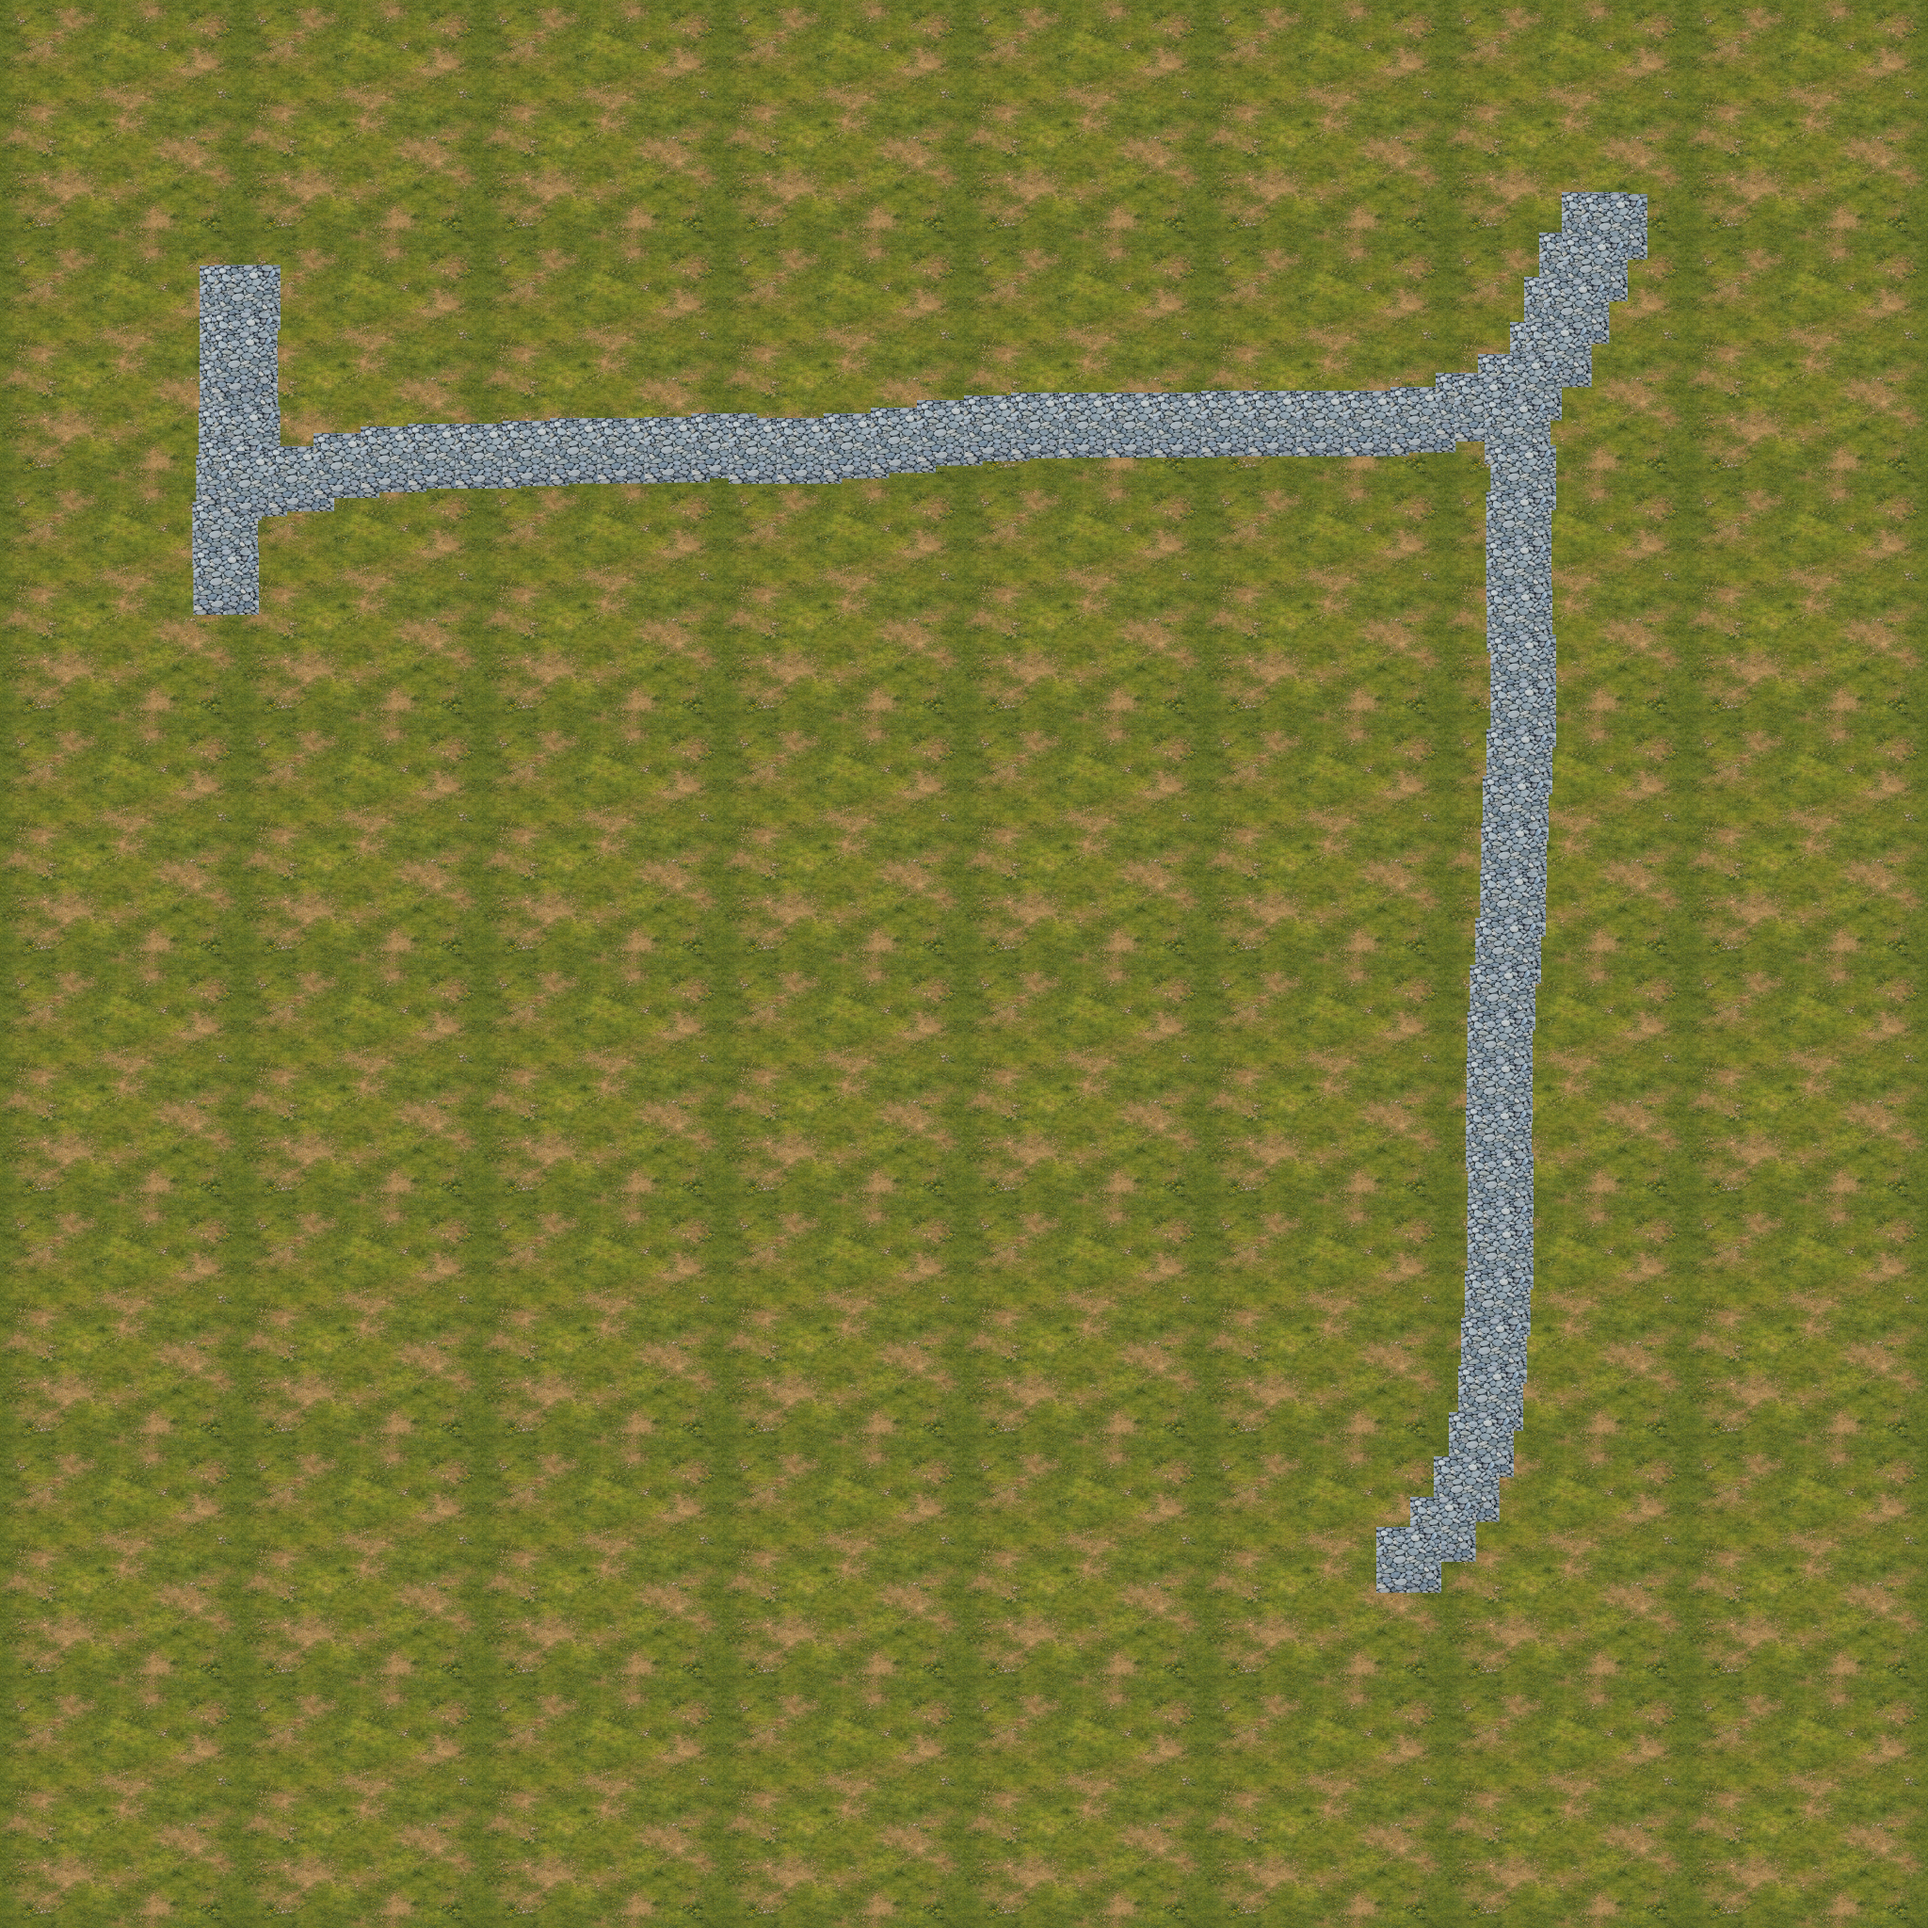
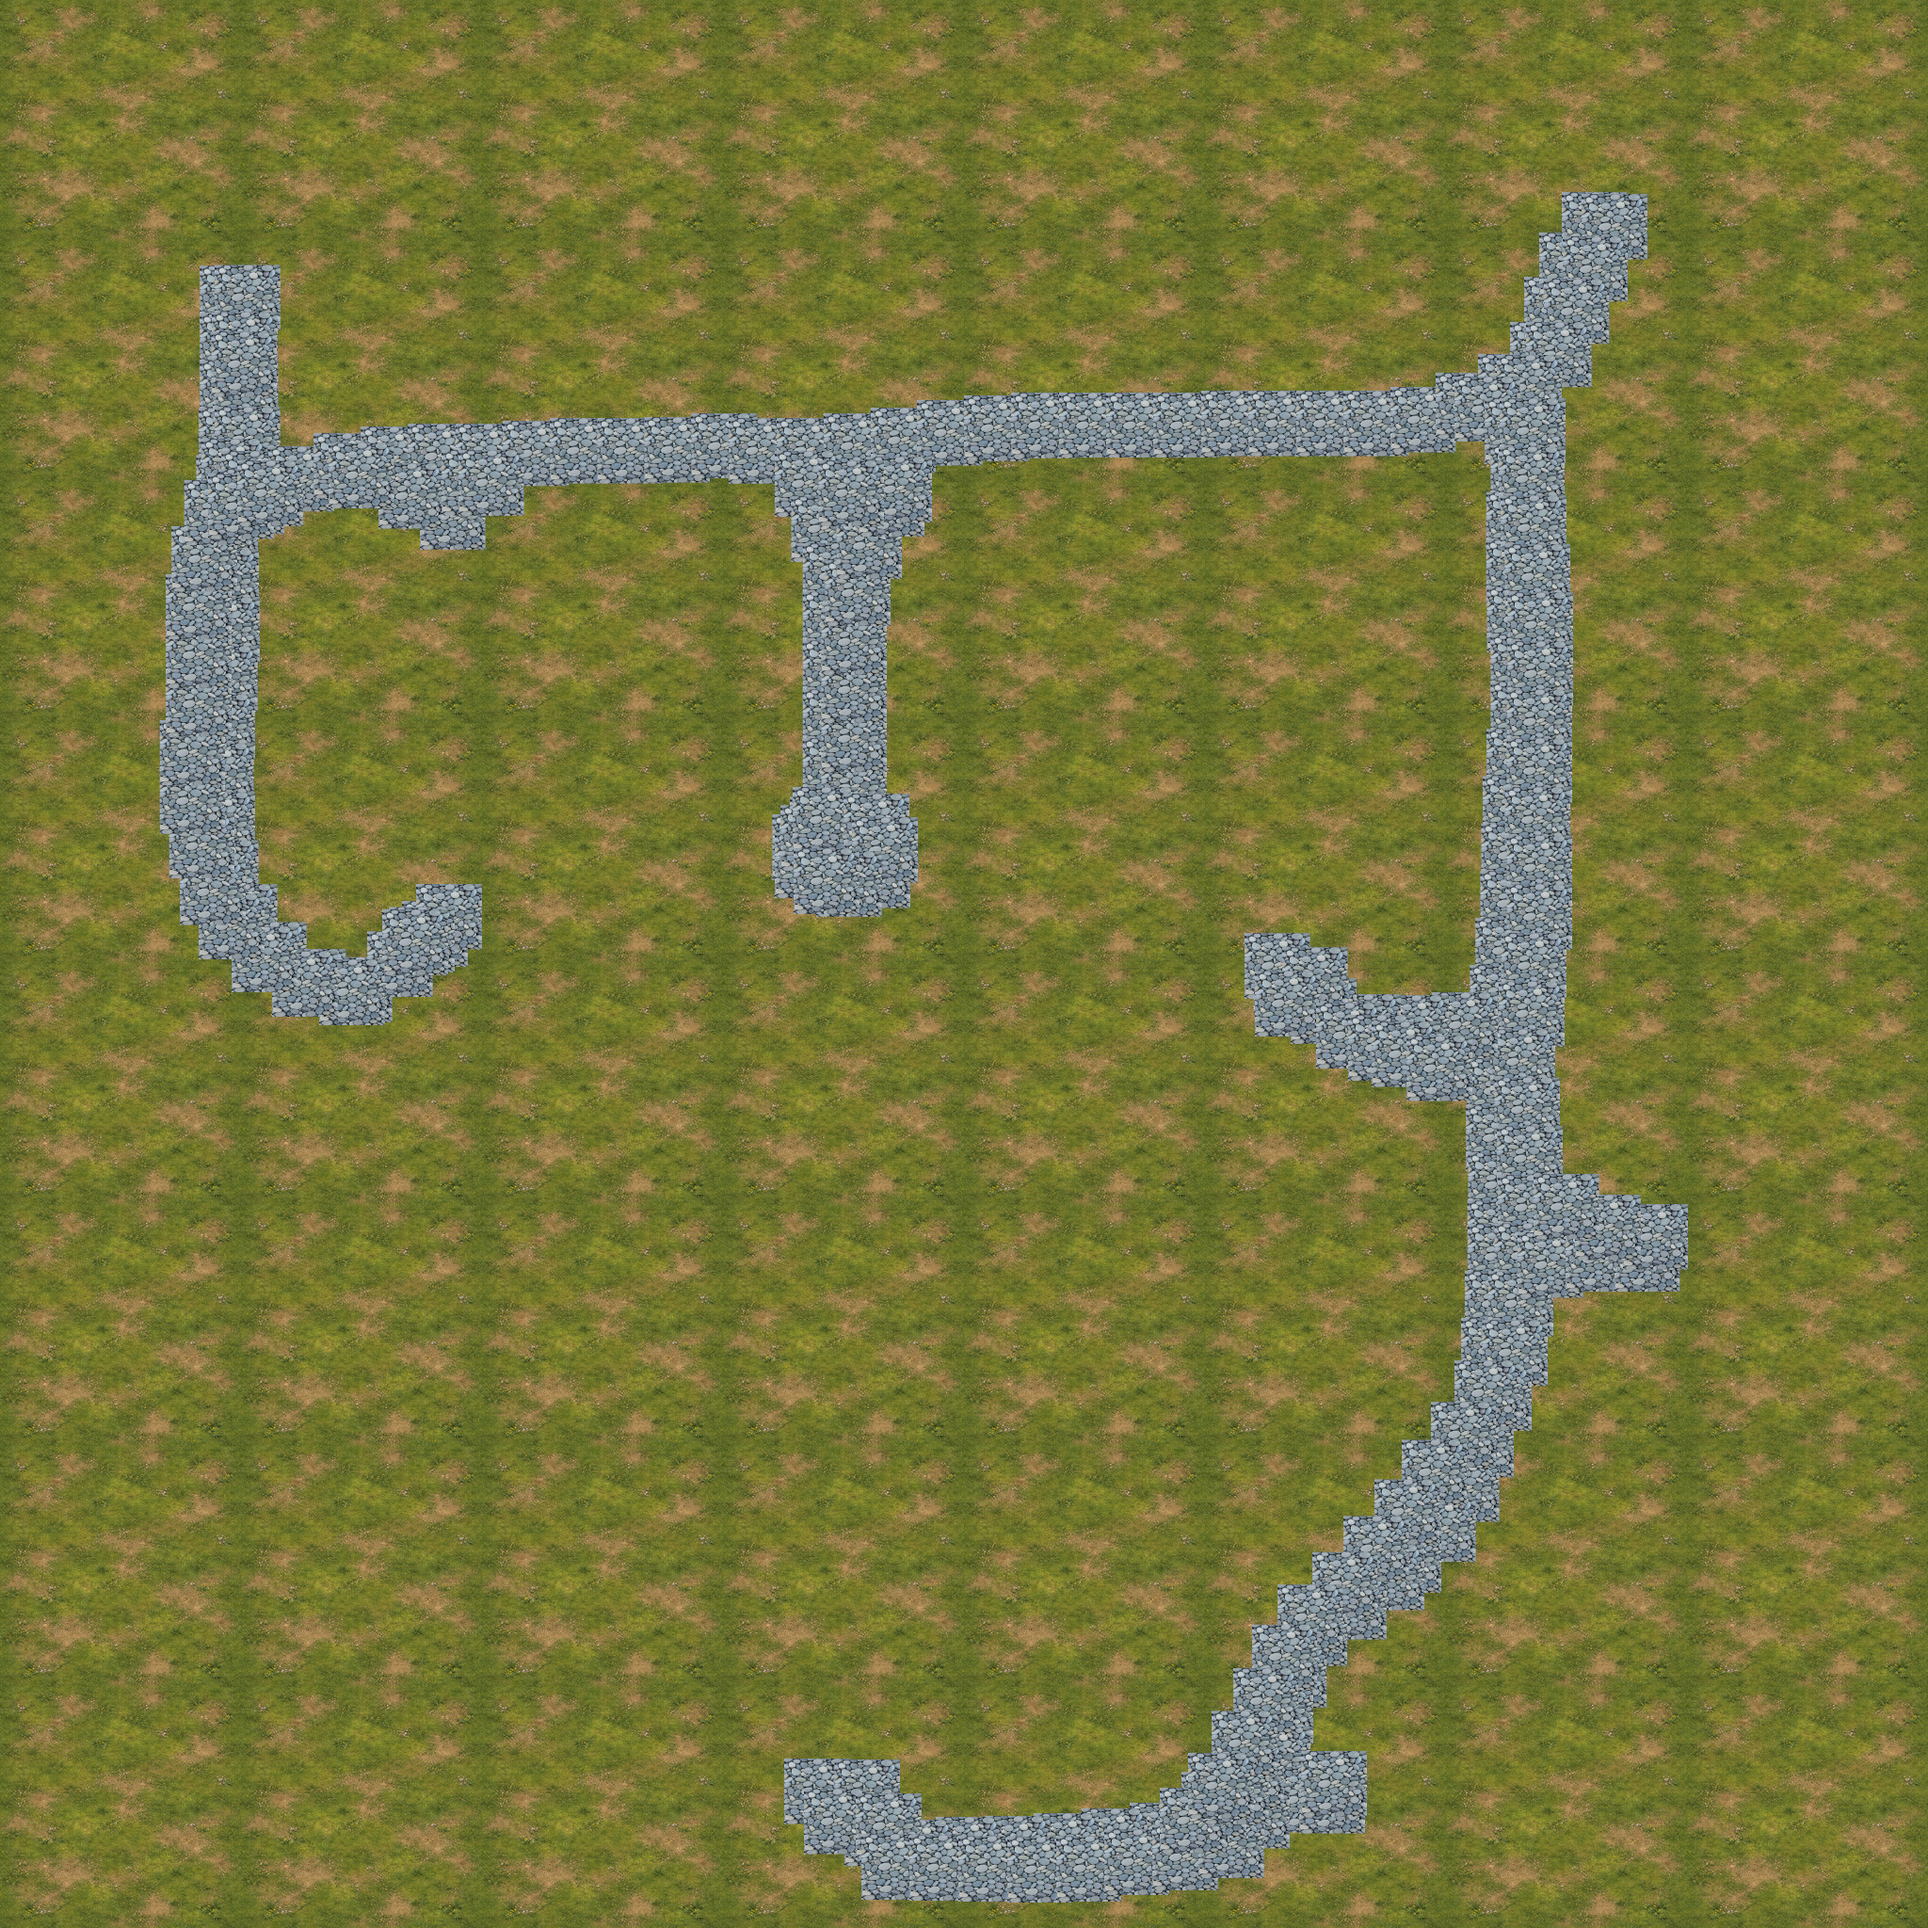
Added paths to map.

Changed region(s): [[0.4062, 0.1875, 0.875, 1.0], [0.0625, 0.2188, 0.2812, 0.5312], [0.375, 0.2188, 0.5, 0.5]]

diff --git a/src/main/java/no/uib/inf112/map/levels/Level1.java b/src/main/java/no/uib/inf112/map/levels/Level1.java
@@ -31,8 +31,8 @@ public class Level1 implements ILevel {
     private ArrayList<IFloor> floors;
 
     // Player
-    private static final int START_X = 1200;// 2 * Config.getInt("cellWidth"); //Starts in row 2 now
-    private static final int START_Y = 1010;// 2 * Config.getInt("cellHeight");; //Same for 2nd col.
+    private static final int START_X = 1075;// 2 * Config.getInt("cellWidth"); //Starts in row 2 now
+    private static final int START_Y = 1080;// 2 * Config.getInt("cellHeight");; //Same for 2nd col.
     private static final int PLAYERWIDTH = Config.getInt("playerWidth");
     private static final int PLAYERHEIGHT = Config.getInt("playerHeight");
 
@@ -325,7 +325,7 @@ public class Level1 implements ILevel {
 
 
         //path
-        this.floors.add(new RockRoad(new Rectangle2D.Double(900,900, 100, 100)));
+        
 
 
         
